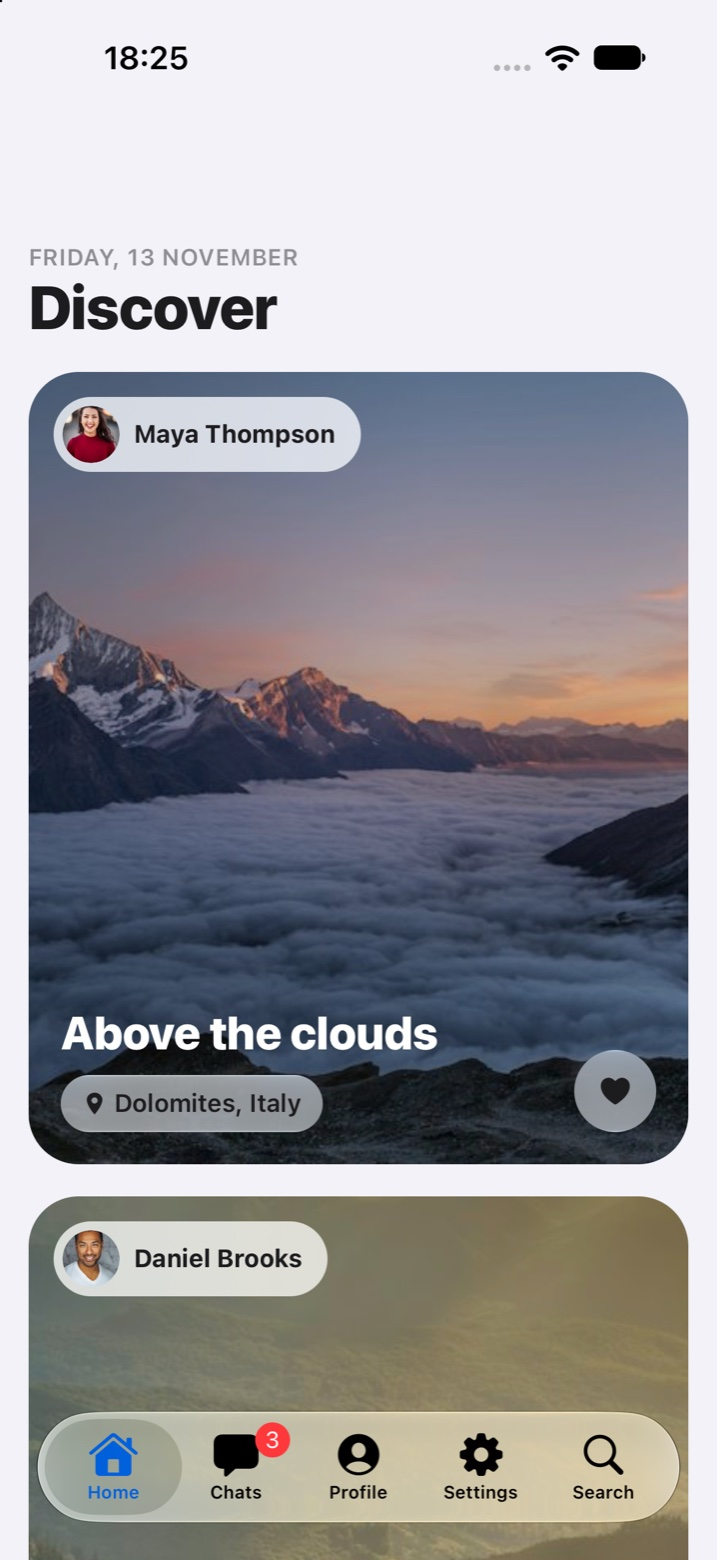
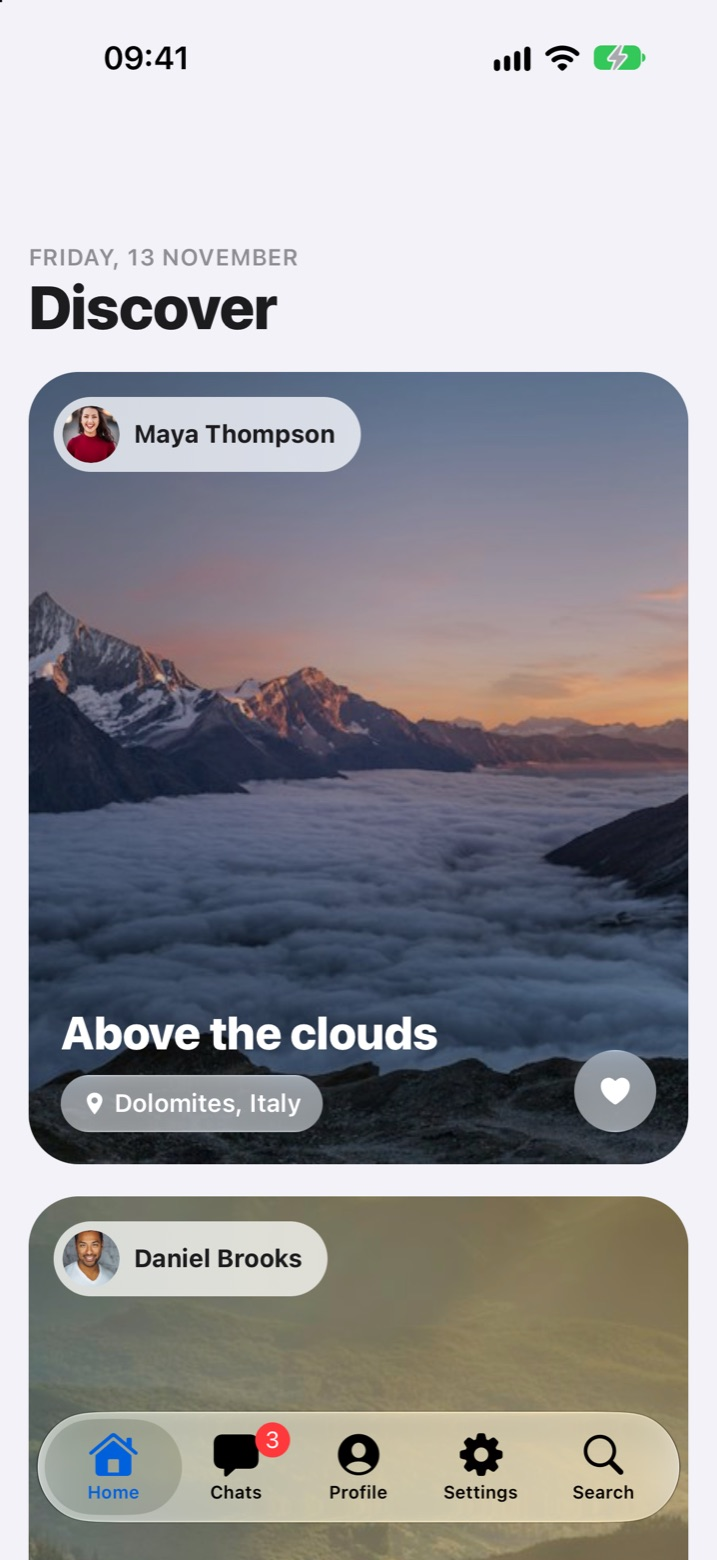
Update the iOS screenshots with the redesigned example

diff --git a/README.md b/README.md
@@ -14,16 +14,17 @@
 ### iOS — Liquid Glass (iOS 26+)
 
 <p float="left">
-  <img src="images/ios-1.png" width="220" alt="iOS Config - Liquid Glass Tab Bar" />
-  <img src="images/ios-2.png" width="220" alt="iOS Chat - Scrolling with Liquid Glass" />
-  <img src="images/ios-3.png" width="220" alt="iOS Config - Purple Theme" />
-  <img src="images/ios-4.png" width="220" alt="iOS Profile - Cards with Liquid Glass" />
+  <img src="images/ios-search.jpg" width="220" alt="iOS - Search grid under the liquid glass tab bar" />
+  <img src="images/ios-chats.jpg" width="220" alt="iOS - Chats with a tab badge" />
+  <img src="images/ios-profile-dark.jpg" width="220" alt="iOS - Profile in dark mode" />
+  <img src="images/ios-settings.jpg" width="220" alt="iOS - Settings" />
 </p>
 
 `BlurView` / `LiquidGlassView` on iOS 26+ (Apple's own liquid glass):
 
 <p float="left">
   <img src="images/ios-glass-views.jpg" width="220" alt="iOS - BlurView and LiquidGlassView chips over photos" />
+  <img src="images/ios-glass-views-dark.jpg" width="220" alt="iOS - BlurView and LiquidGlassView chips in dark mode" />
 </p>
 
 ### Android — Blur & Liquid Glass (new in 1.1)
